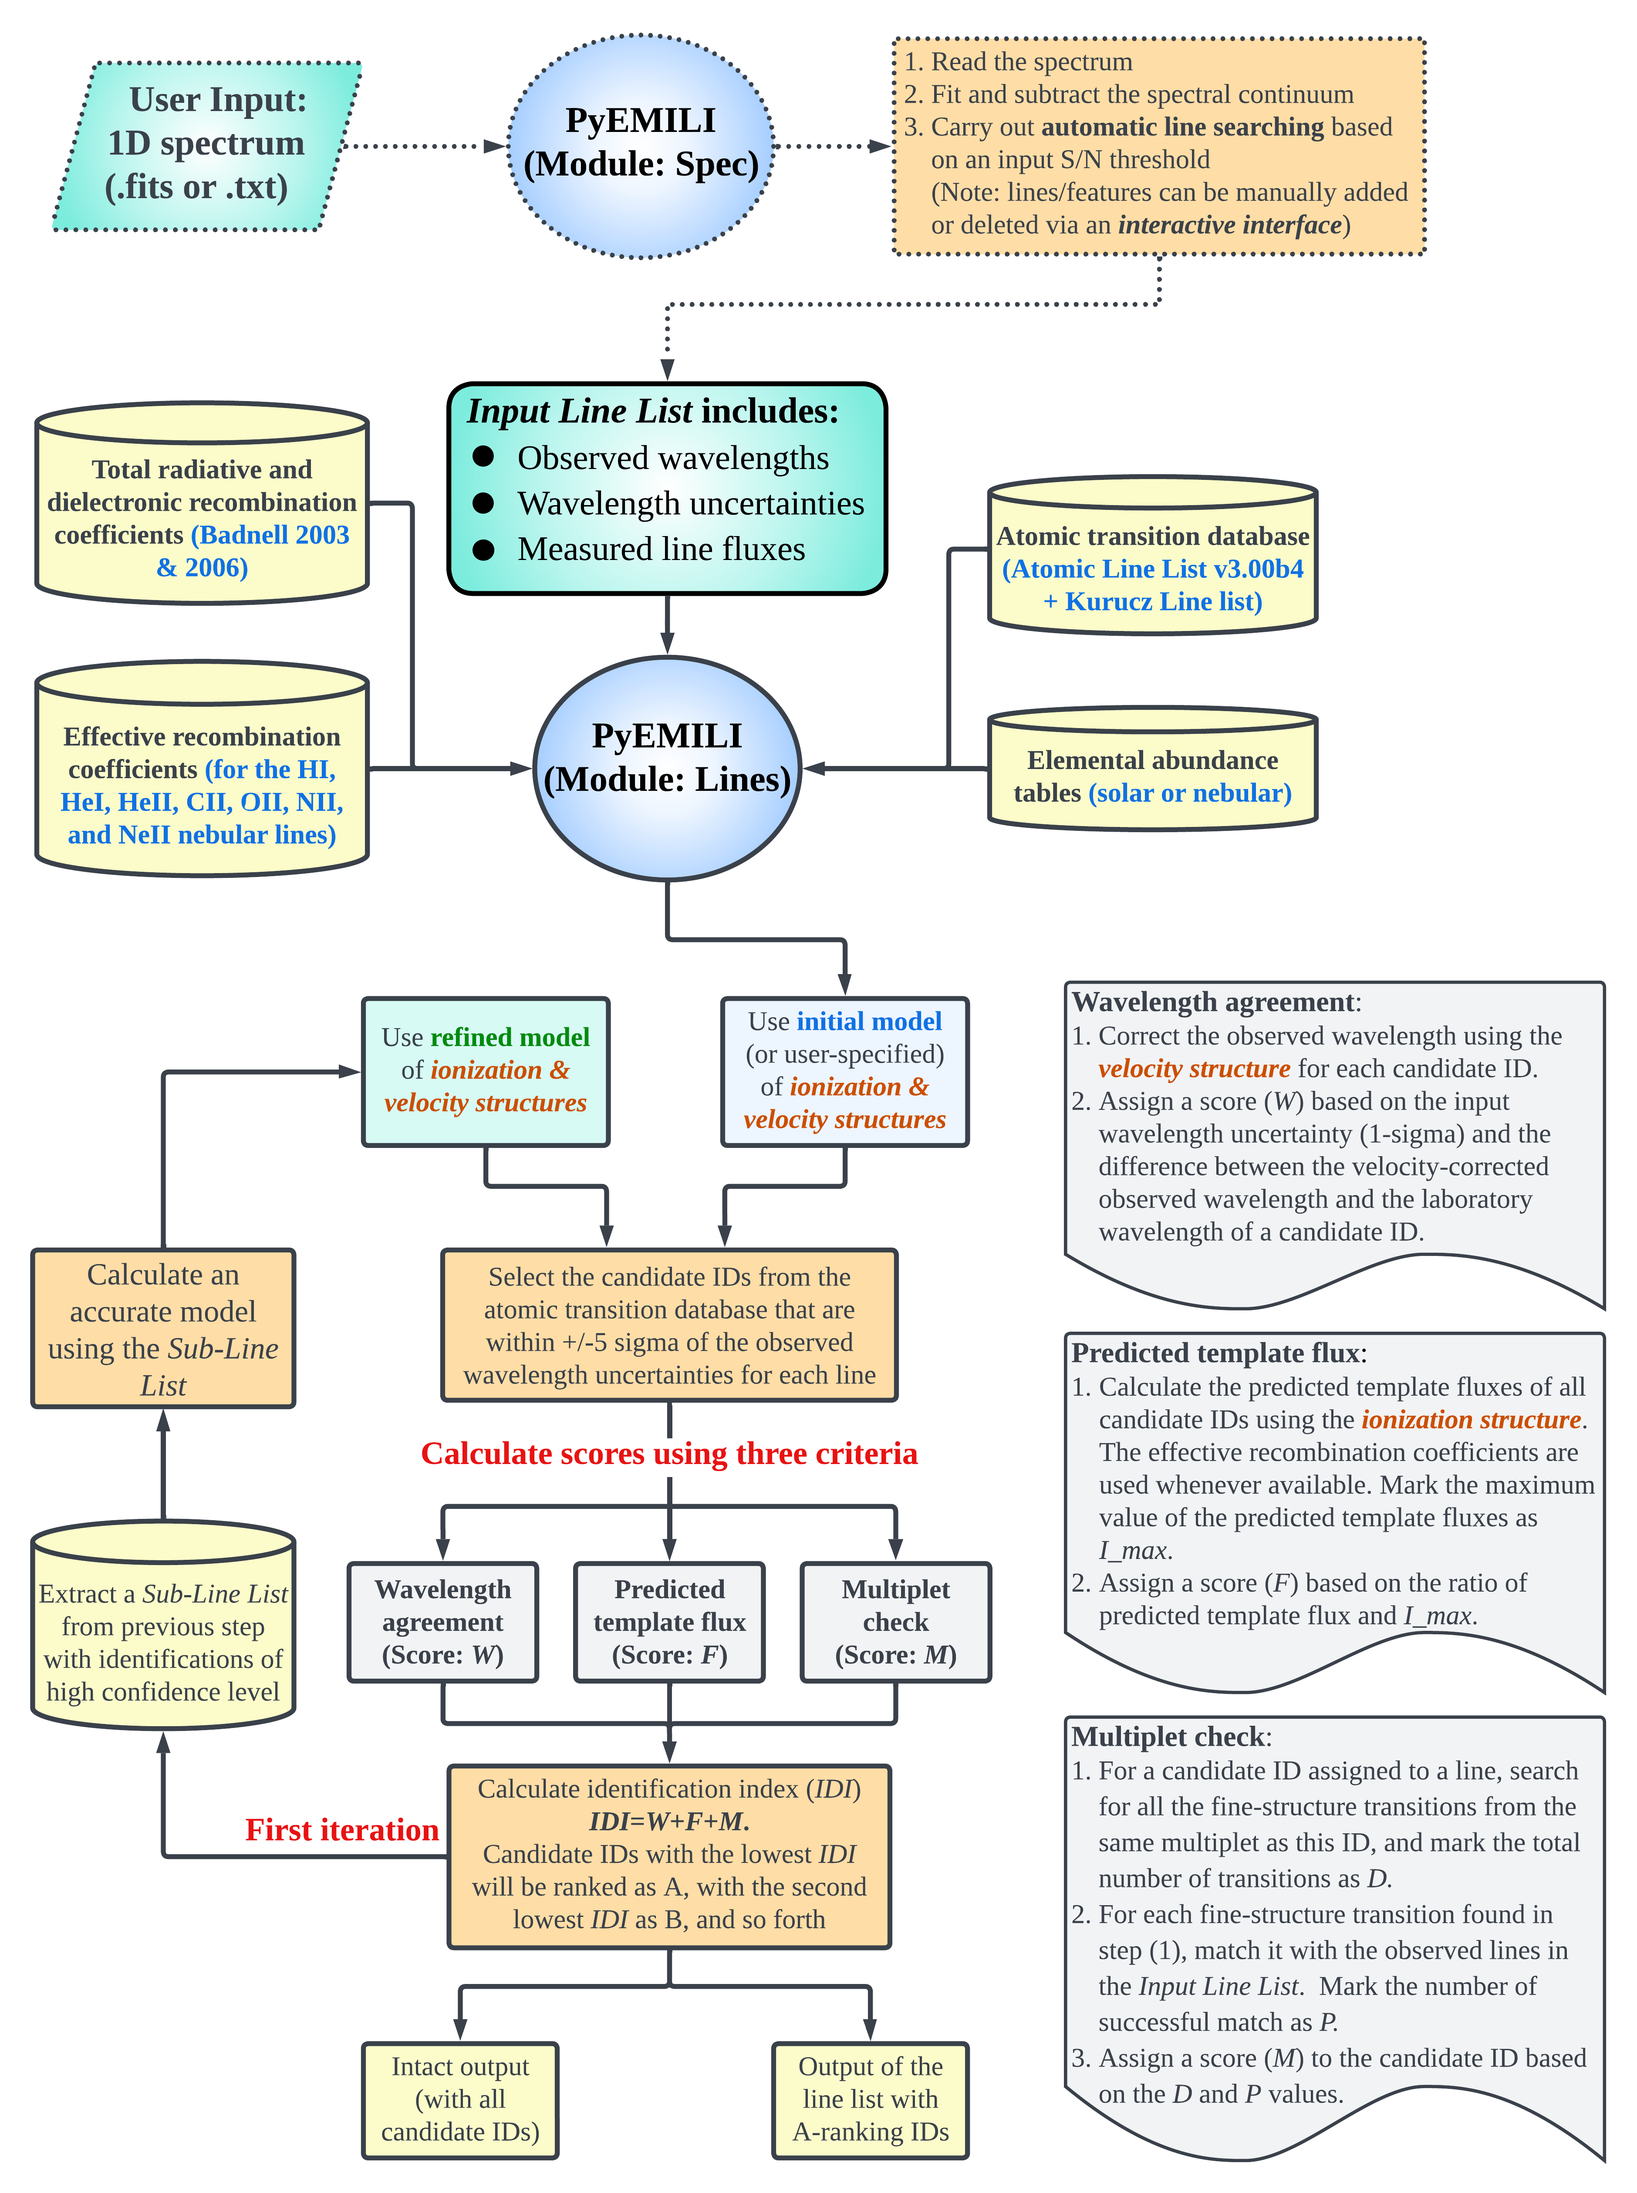
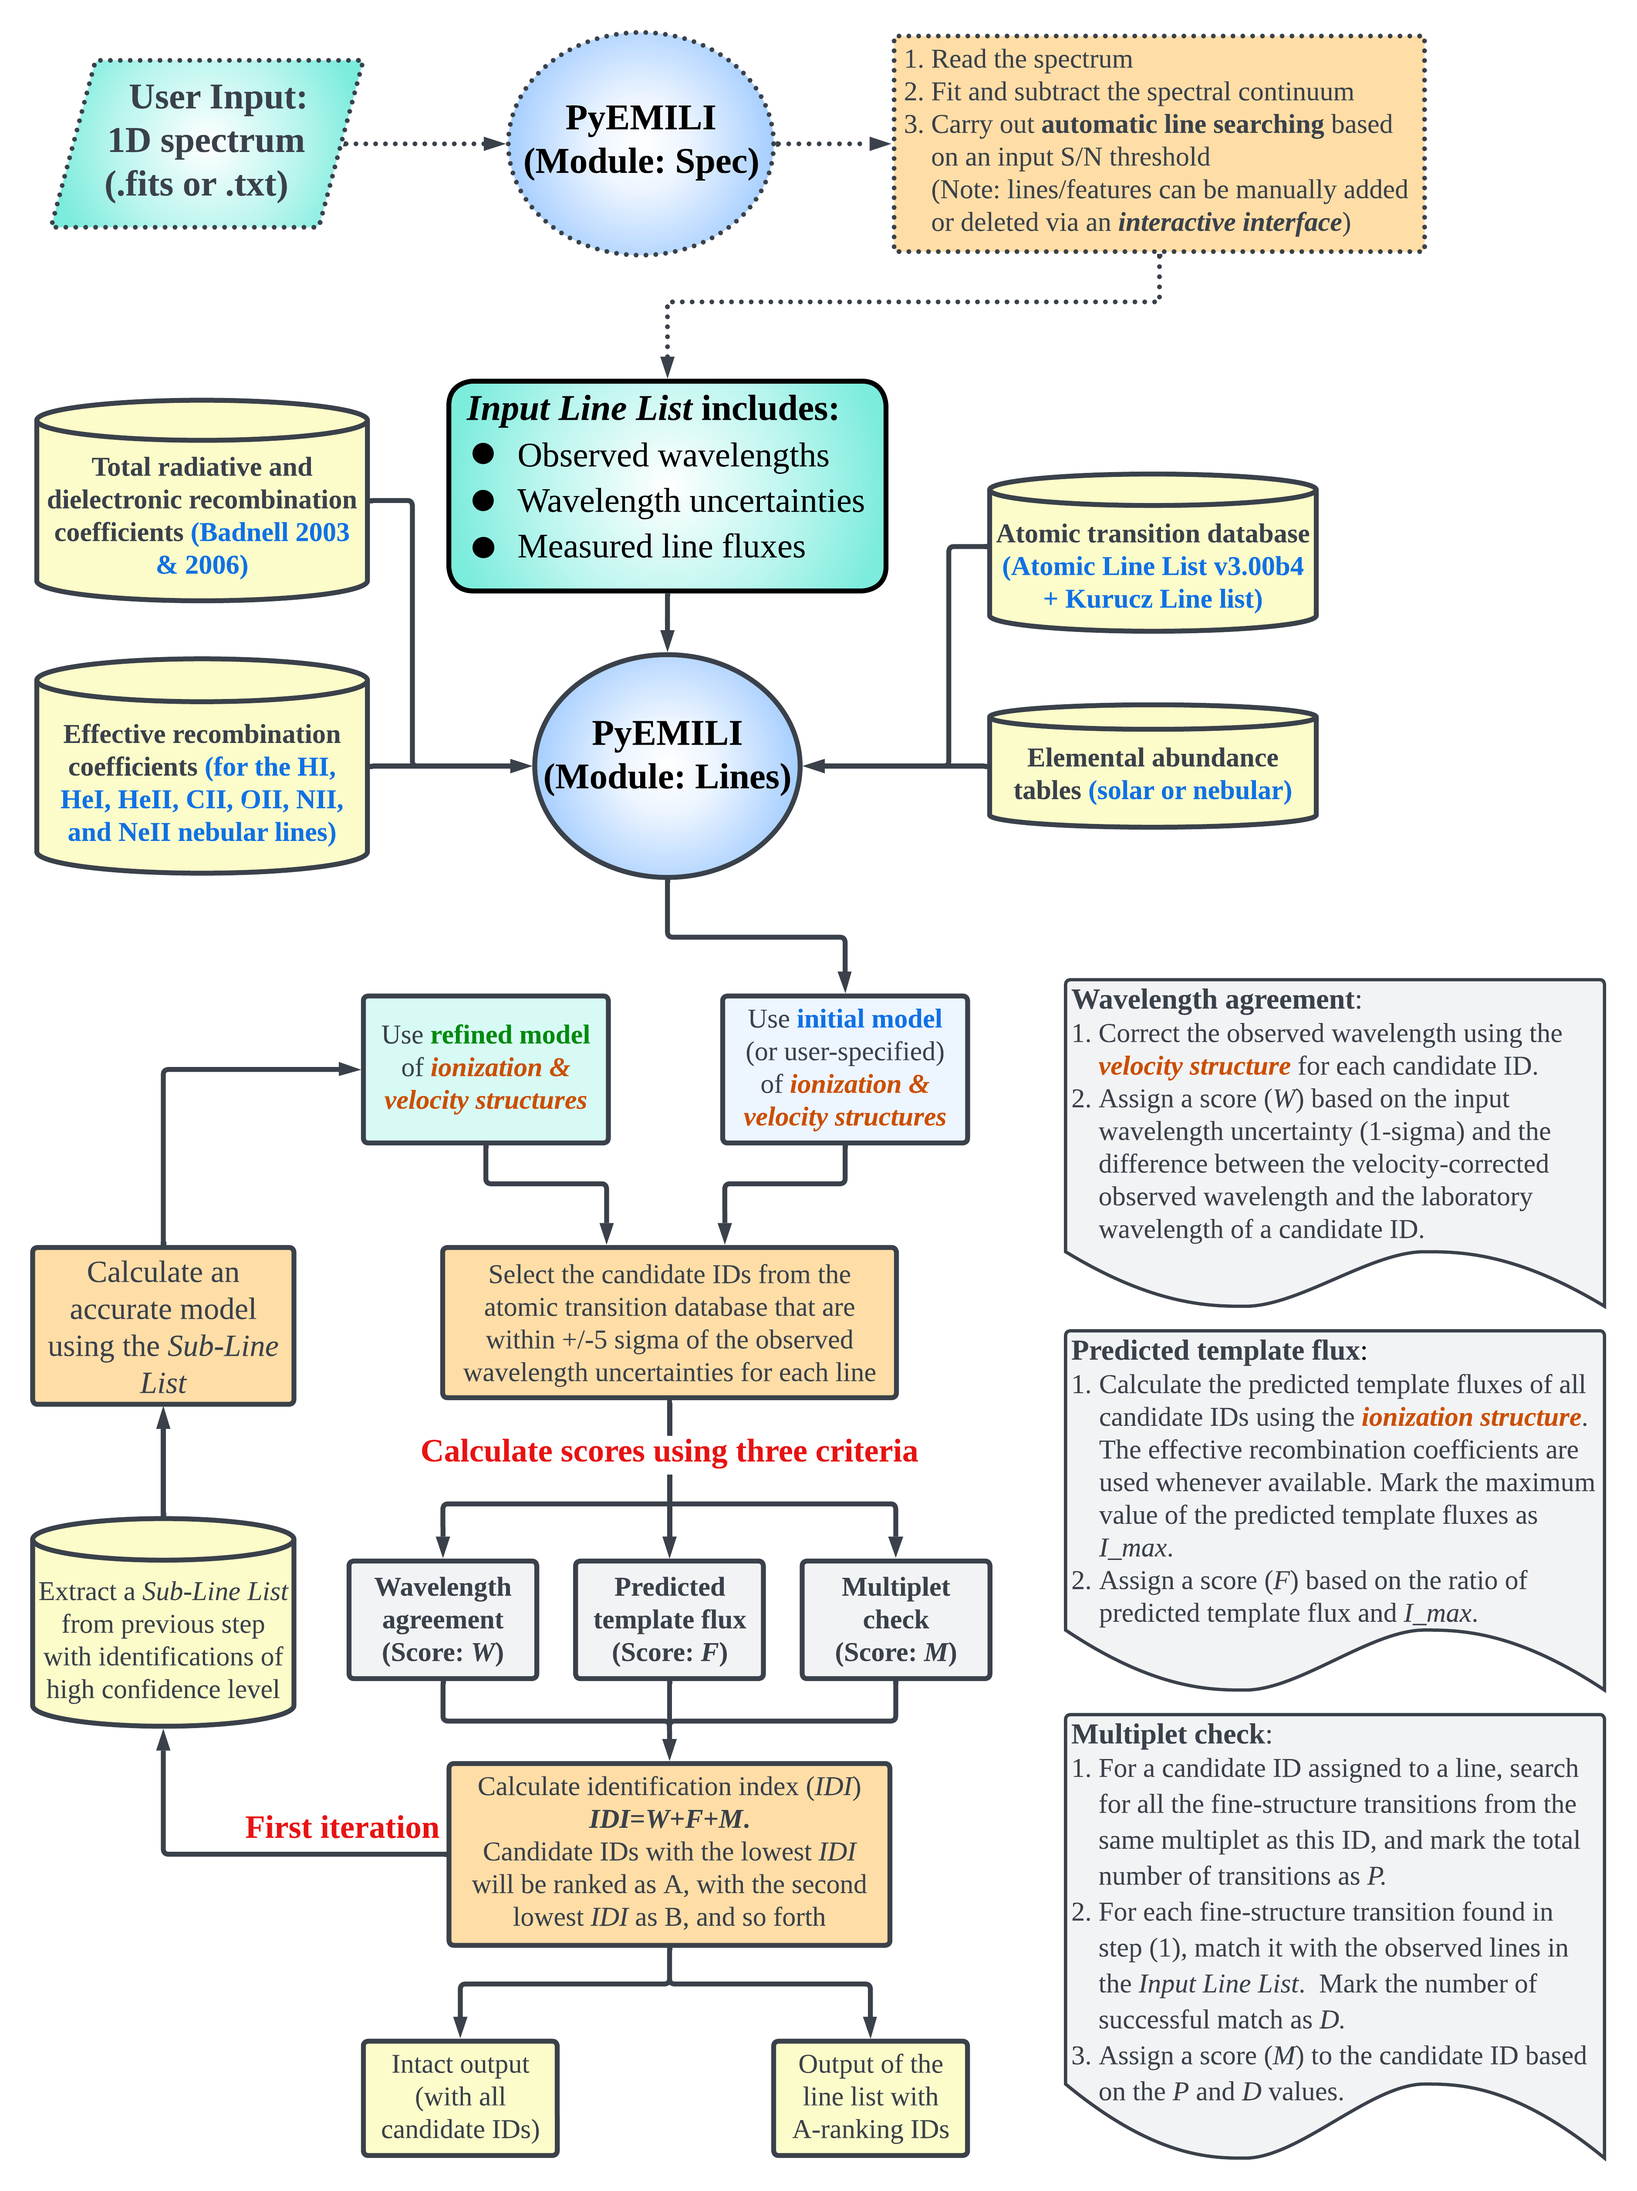
update

diff --git a/manual/Intro.md b/manual/Intro.md
@@ -26,51 +26,62 @@ The **wavelength agreement** score is based on how closely the observed line’s
 
 Lines with a closer match (lower $\Delta\lambda$) will receive a lower **W** score, indicating a better match.
 
-#### **2. Predicted Flux (F)**
-The **predicted flux** score is based on the expected intensity of the spectral line. For each putative ID within a $5\sigma$ wavelength difference (surviving the wavelength agreement assessment), the predicted flux ($I$) from a template is calculated. The highest predicted flux is denoted as $I_{\text{max}}$. Each ID is scored based on how its predicted flux compares to $I_{\text{max}}$, following these criteria:
+#### **2. Predicted Template Flux (F)**
+The **predicted template flux** in PyEMILI is scored based on the expected flux contribution from **radiative recombination**, **dielectronic recombination**, and **collisional excitation** processes. For radiative and dielectronic recombination, the flux is represented by:
+
+\[
+I_\mathrm{R} \propto L_{\rm R} = N_{\rm e}\,N_{i+1}\,C\,(\alpha_{\rm RR} + \alpha_{\rm DR})\,h\nu,
+\]
+
+where \(N_{\rm e}\) is the electron density, \(N_{i+1}\) is the ion density, \(\alpha_{\rm RR}\) and \(\alpha_{\rm DR}\) are the radiative and dielectronic recombination coefficients, respectively, and \(h\nu\) is the photon energy.
+
+For collisional excitation, the flux is represented as:
+
+\[
+I_\mathrm{C} \propto L_{\rm C} = D\,N_{\rm e}\,N_{1}\,q_{12}\,h\nu\,\frac{1}{1 + N_{\rm e}\,q_{21}/A_{21}},
+\]
+
+where \(N_{1}\) is the number density populated in the lower energy state, \(q_{12}\) and \(q_{21}\) are the collisional excitation and de-excitation rates, and \(A_{21}\) is the spontaneous transition probability.
+
+The **predicted template flux** for each line, whether **\(I_{\rm R}\)** or **\(I_{\rm C}\)**, is calculated based on the transition type:
+- **Permitted transitions** are assumed to form primarily through recombination.
+- **Forbidden transitions** are assumed to arise from collisional excitation.
+- For **intercombination transitions** (or semi-forbidden transitions), the predicted template flux is a sum of recombination and collisional excitation contributions, with the collisional excitation component diluted by a factor of 100. This factor is empirically derived from the comparisons of numerous PNe and H II regions samples.
+
+The **predicted flux** score is based on the expected intensity of the spectral line. For each putative ID within a $5\sigma$ wavelength difference (surviving the wavelength agreement assessment), the predicted flux ($I$) is calculated as mentioned above. The highest predicted flux of a unidentified line is denoted as $I_{\text{max}}$. Each ID is scored based on how its predicted flux compares to $I_{\text{max}}$, following these criteria:
 
 - **F = 0** if $I \geq 0.1I_{\text{max}}$
 - **F = 1** if $I \geq 0.01I_{\text{max}}$
 - **F = 2** if $I \geq 0.001I_{\text{max}}$
 - **F = 3** if $I \geq 0.0001I_{\text{max}}$
-- **F = 4** if $I < 0.0001I_{\text{max}}$
 
 Putative IDs with predicted fluxes less than $0.0001I_{\text{max}}$ are not considered further, as they are too weak to be reliable candidates. Higher fluxes lead to lower **F** scores, indicating a better match.
 
 #### **3. Multiplet Check (M)**
-The **multiplet check** evaluates whether the putative ID belongs to a multiplet and, if so, whether other members of the multiplet are also detected in the spectrum. Each putative ID’s multiplet members are examined, and both the number of observable multiplet members ($P$) and the number of detected multiplet members ($D$) are considered. The **M** score is determined according to the following conditions:
+The **multiplet check** evaluates whether the putative ID belongs to a multiplet and, if so, whether other members of the multiplet are also detected in the *Input Line List*. Each putative ID’s multiplet members are examined, and both the number of total multiplet members ($P$) and the number of detected multiplet members ($D$) are considered. The **M** score is determined according to the following conditions:
 
-- **M = 0** if $P = 2$, and either $D = 2$ or $D > 2$
-- **M = 1** if $P = 1$, $D = 1$, or $P > 2$, $D = 2$
-- **M = 2** if $P = 0$, $D = 0$, or $P > 1$, $D = 1$
-- **M = 3** if $P = 1$, $D = 0$, or $P = 2$, $D = 0$
-- **M = 4** if $P > 2$, $D = 0$
+- **M = 0** if $P = 2$ & $D = 2$, or $D > 2$
+- **M = 1** if $P = 1$ & $D = 1$, or $P > 2$ & $D = 2$
+- **M = 2** if $P = 0$ & $D = 0$, or $P > 1$ & $D = 1$
+- **M = 3** if $P = 1$ & $D = 0$, or $P = 2$ & $D = 0$
+- **M = 4** if $P > 2$ & $D = 0$
 
 The presence of multiple detected multiplet members improves the match, resulting in a lower **M** score.
 
 #### **4. Identification Index (IDI)**
-Finally, the **Identification Index (IDI)** is used to quantify the overall likelihood of each putative ID being the correct identification. The **IDI** is calculated as the sum of the scores from the three components:  
-\[ \text{IDI} = W + F + M \]
+Finally, the **Identification Index (IDI)** is used to quantify the overall likelihood of each putative ID being the plausible identification. The **IDI** is calculated as the sum of the scores from the three components:  
+\[ \text{IDI} = W + F + M. \]
 
-Lower **IDI** values correspond to better matches, meaning the candidate line satisfies the criteria more closely. PyEMILI provides users with multiple potential IDs for each line, ranked by their **IDI** scores, allowing users to select the most plausible identification based on the context of their analysis.
+Lower **IDI** values correspond to better matches, meaning the candidate line satisfies the criteria more closely. PyEMILI provides users with multiple potential IDs for each line, ranked by their **IDI** scores, allowing users to select the most plausible identification based on the context of analysis.
 
-This code is not meant to model the spectra, but rather to aid in the identification of weak lines by providing many alternative IDs with their possibilities defined by scores. For one spectral line to be identified by PyEMILI, it will be assessed and scored from three aspects with different criteria:
-
+#### Summary of Identification Criteria
 | W | Condition                   | F | Condition             | M   | Condition              |
 |---|-----------------------------|---|-----------------------|-----|------------------------|
-| 0 | $\Delta\lambda\leq 1 \sigma$          | 0 | $I\geq 0.1 I_{max}$    | 0  | $P=2,D=2$ or $D>2$     |
-| 1 | $1\sigma <\Delta\lambda \leq 2\sigma$ | 1 | $I\geq 0.01 I_{max}$   | 1  | $P=1,D=1$ or $P>2,D=2$ |
-| 2 | $2\sigma <\Delta\lambda \leq 3\sigma$ | 2 | $I\geq 0.001 I_{max}$  | 2  | $P=0,D=0$ or $P>1,D=1$ |
-| 3 | $3\sigma <\Delta\lambda \leq 4\sigma$ | 3 | $I\geq 0.0001 I_{max}$ | 3  | $P=1,D=0$ or $P=2,D=0$ |
+| 0 | $\Delta\lambda\leq 1 \sigma$          | 0 | $I\geq 0.1 I_{max}$    | 0  | $P=2\&D=2$ or $D>2$     |
+| 1 | $1\sigma <\Delta\lambda \leq 2\sigma$ | 1 | $I\geq 0.01 I_{max}$   | 1  | $P=1\&D=1$ or $P>2\&D=2$ |
+| 2 | $2\sigma <\Delta\lambda \leq 3\sigma$ | 2 | $I\geq 0.001 I_{max}$  | 2  | $P=0\&D=0$ or $P>1\&D=1$ |
+| 3 | $3\sigma <\Delta\lambda \leq 4\sigma$ | 3 | $I\geq 0.0001 I_{max}$ | 3  | $P=1\&D=0$ or $P=2\&D=0$ |
 | 4 | $4\sigma <\Delta\lambda \leq 5\sigma$ |   |                        | 4  | $P>2,D=0$              |
-
-**W** is the score of **wavelength agreement** component. The residual wavelength difference ($\Delta\lambda$ in km/s) between the corrected observed line's wavelength and the putative ID is within a number of standard deviations ($\sigma$) of the observed line's wavelength uncertainty.
-
-**F** is the score of **Predicted template flux** component. For the observed line, every putative IDs within $5\sigma$ wavelength difference survived in the **wavelength agreement** part will be calculated the predicted template fluxes ($I$). The highest predicted template flux is marked as $I_{max}$. Each putative ID  will be scored by comparing with $I_{max}$. IDs with predicted template flux less than 0.0001 $I_{max}$ will not be included in the candidate lines.
-
-**M** is the score of **Multiplet check** component. For each survived putative ID, code will search for the possibly observable multiplet members $P$ and detect the exist multiplet members $D$. The criteria are listed above.
-
-An identification index (IDI) is used to quantify the extent of satisfaction of each putative ID with the criteria, which defines as: **IDI=W+F+M**. This is the total score of each putative ID, with **lower score being better satisfied the criteria**.
 
 ### Definition of energy bins and ionization & velocity structure models
 
@@ -80,17 +91,17 @@ All ions are separated into 5 bins based on the ionization energies to produce s
 |---------|-------------|-------------|------------|--------|
 |0-13.6 eV| 13.6-24.7 eV| 24.7-55 eV| 55-100 eV| >100 eV|
 
-Each bin has the parameters of ionization and velocity structure models. The ionization structure model refers to the proportion of ions in a given ionization bin to the total elemental abundance of that ion. The modified abundances of ions are derived through the total abundances of the elements multiplied by the values of ionization structure model for the bins in which the ions reside. Baldwin et. al. (2000) have shown that in the rest frame of a nebula, the magnitude of the velocity difference between the observed and laboratory wavelengths is correlated with the parent ions' ionization energies. Thus, the velocity structure model aims to correct this correlation for different ions with different ionization energies.
+Each bin has the parameters of ionization and velocity structure models. The ionization structure model refers to the proportion of ions in a given ionization bin to the total elemental abundance of that ion. **The modified abundances of ions are derived through the total abundances of the elements multiplied by the values of ionization structure model for the bins in which the ions reside**. Baldwin et. al. (2000) have shown that in the rest frame of a nebula, the magnitude of the velocity difference between the observed and laboratory wavelengths is correlated with the parent ions' ionization energies. Thus, the velocity structure model aims to correct this correlation for different ions with different ionization energies.
 
 For example, the minimum energy to produce $\mathrm{O^{2+}}$ is 35.11 eV, which also means the ionization energy of the $\mathrm{O^{1+}}$. Thus, $\mathrm{O^{2+}}$ will be classified into the bin 3. And all the [O III] collisionally excited lines and O II recombination lines, whose parent ion is $\mathrm{O^{2+}}$, will use the corresponding values of ionization and velocity structure models for bin 3 to calculate their scores.
 
-Default ionization structure value for each bin:
+Initial ionization structure value for each bin:
 
 | bin 1   | bin 2       | bin 3       | bin 4      | bin 5  |
 |---------|-------------|-------------|------------|--------|
 |0.01| 0.5| 0.4| 0.1| 0.001|
 
-Default velocity structure value for each bin (in km/s):
+Initial velocity structure value for each bin (in km/s):
 
 | bin 1   | bin 2       | bin 3       | bin 4      | bin 5  |
 |---------|-------------|-------------|------------|--------|
@@ -98,11 +109,11 @@ Default velocity structure value for each bin (in km/s):
 
 ### Output files
 
-After running `pyemili.Lines.Line_list.identify()`, two files end with **'.dat'** and **'.out'** will be generate in the directory. The '.out' file contains complete candidate lines of each input observed line. The following are some of the candidate lines for an observed line. The title information is
+After running `pyemili.Lines.Line_list.identify()`, two files end with **'.dat'** and **'.out'** will be generate in the directory. The '.out' file contains complete candidate IDs of each input observed line. As an example of the results, The following presents a demonstrative output of PyEMILI's identification of an emission line observed:
 
 >`Number 98 	Observed line:	3918.93000 	 1.07E-03	SNR:226.4	FWHM:18.7`
 
-which means this observed line is the 98th line of input line list. The observed wavelength is 3918.93. Flux is 1.07e-03 relative to the $H_\beta$.
+The '.out' file is composed of individual blocks, with each block corresponding to the line identification of a single obserevd line. Each block begins with header information as shown above, which means this observed line is the 98th line of *Input Line List*. The observed wavelength is 3918.93 angstroms. Flux is 1.07e-03 relative to the $H_\beta=1$.
 
 ![out file](./pic/out.png)
 

diff --git a/README.md b/README.md
@@ -41,4 +41,4 @@ Usage of the code and examples are [here](./manual), including the description o
 
 ## Troubleshooting
 
-Any problems using the code and bugs or issues, please email <zjtu@bao.ac.cn>.
+Any problems about the code and bugs or issues, please email <zjtu@bao.ac.cn> or <fangx@nao.cas.cn>.
